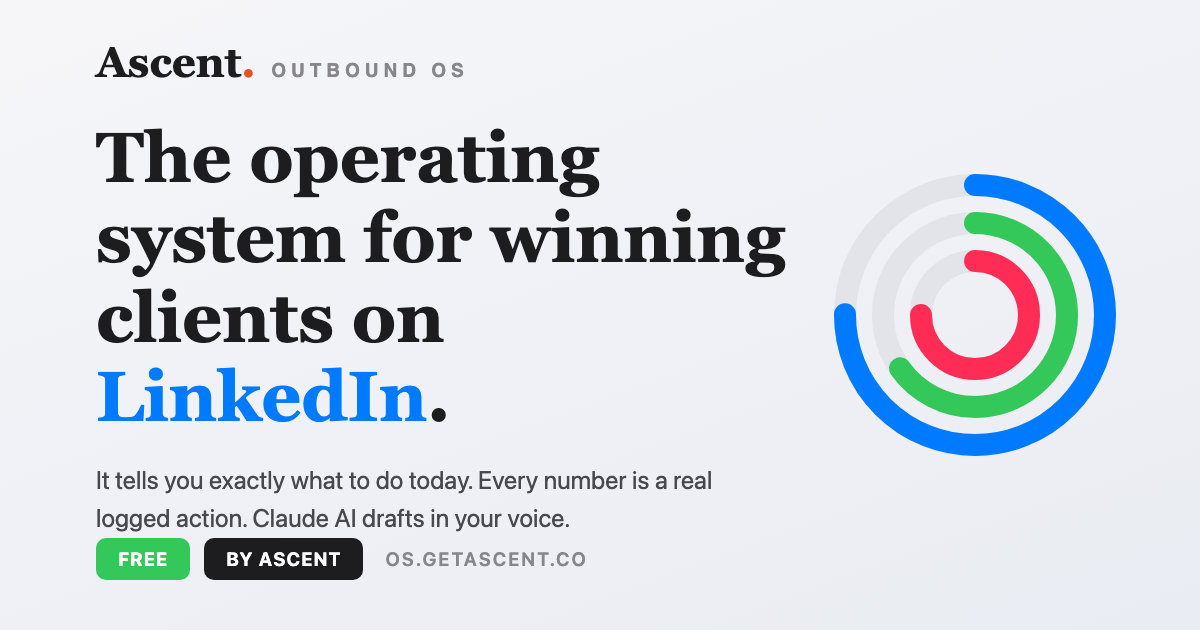
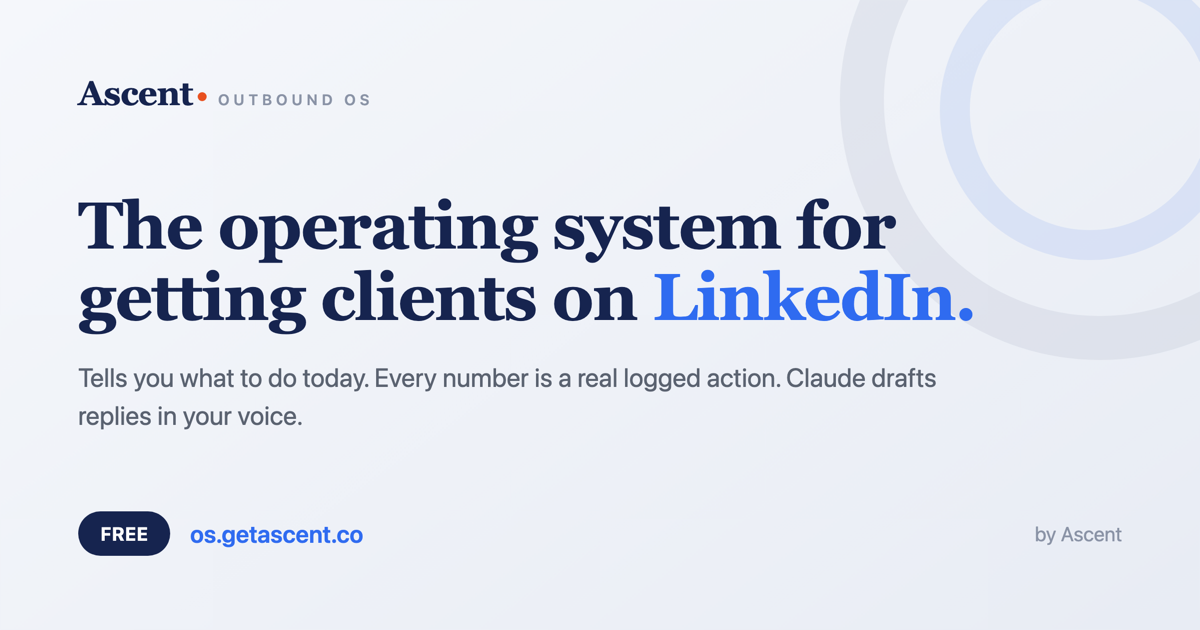
Fix share image + SEO polish for os.getascent.co
- Regenerate assets/og.png: clean, on-brand card (navy serif, correct copy
  'getting clients on LinkedIn', 'Claude drafts' not 'Claude AI', no busy graphic).
  The old og.png was stale ('winning clients', 'Claude AI') and mismatched the site.
- Cache-bust og:image URLs (?v=2) so WhatsApp/LinkedIn/etc. re-fetch the new image.
- Fix llms.txt 'winning' -> 'getting clients' (matches the live hero + brand rule).
- Align app.html share title to 'get clients'; add og:image:alt.

diff --git a/app.html b/app.html
@@ -11,16 +11,16 @@
 <!-- Open Graph / social share -->
 <meta property="og:type" content="website">
 <meta property="og:site_name" content="Ascent Outbound OS">
-<meta property="og:title" content="Ascent Outbound OS — win clients on LinkedIn">
+<meta property="og:title" content="Ascent Outbound OS — get clients on LinkedIn">
 <meta property="og:description" content="Free. It tells you exactly what to do today, every number is a real logged action, and Claude drafts messages in your voice.">
 <meta property="og:url" content="https://os.getascent.co/app">
-<meta property="og:image" content="https://os.getascent.co/assets/og.png">
+<meta property="og:image" content="https://os.getascent.co/assets/og.png?v=2">
 <meta property="og:image:width" content="1200">
 <meta property="og:image:height" content="630">
 <meta name="twitter:card" content="summary_large_image">
-<meta name="twitter:title" content="Ascent Outbound OS — win clients on LinkedIn">
+<meta name="twitter:title" content="Ascent Outbound OS — get clients on LinkedIn">
 <meta name="twitter:description" content="Free. It tells you exactly what to do today, every number is a real logged action, and Claude drafts messages in your voice.">
-<meta name="twitter:image" content="https://os.getascent.co/assets/og.png">
+<meta name="twitter:image" content="https://os.getascent.co/assets/og.png?v=2">
 <link rel="icon" href="assets/favicon.svg">
 <link rel="stylesheet" href="css/style.css">
 </head>

diff --git a/index.html b/index.html
@@ -15,13 +15,14 @@
 <meta property="og:title" content="Ascent Outbound OS: a free LinkedIn CRM for getting clients">
 <meta property="og:description" content="Free. It tells you what to do today on LinkedIn, tracks every real action, chases your deals, and drafts replies in your voice with Claude.">
 <meta property="og:url" content="https://os.getascent.co/">
-<meta property="og:image" content="https://os.getascent.co/assets/og.png">
+<meta property="og:image" content="https://os.getascent.co/assets/og.png?v=2">
+<meta property="og:image:alt" content="Ascent Outbound OS — the operating system for getting clients on LinkedIn">
 <meta property="og:image:width" content="1200">
 <meta property="og:image:height" content="630">
 <meta name="twitter:card" content="summary_large_image">
 <meta name="twitter:title" content="Ascent Outbound OS: a free LinkedIn CRM for getting clients">
 <meta name="twitter:description" content="Free. It tells you what to do today on LinkedIn, tracks every real action, chases your deals, and drafts replies in your voice with Claude.">
-<meta name="twitter:image" content="https://os.getascent.co/assets/og.png">
+<meta name="twitter:image" content="https://os.getascent.co/assets/og.png?v=2">
 <script type="application/ld+json">
 {"@context":"https://schema.org","@graph":[
  {"@type":"SoftwareApplication",
